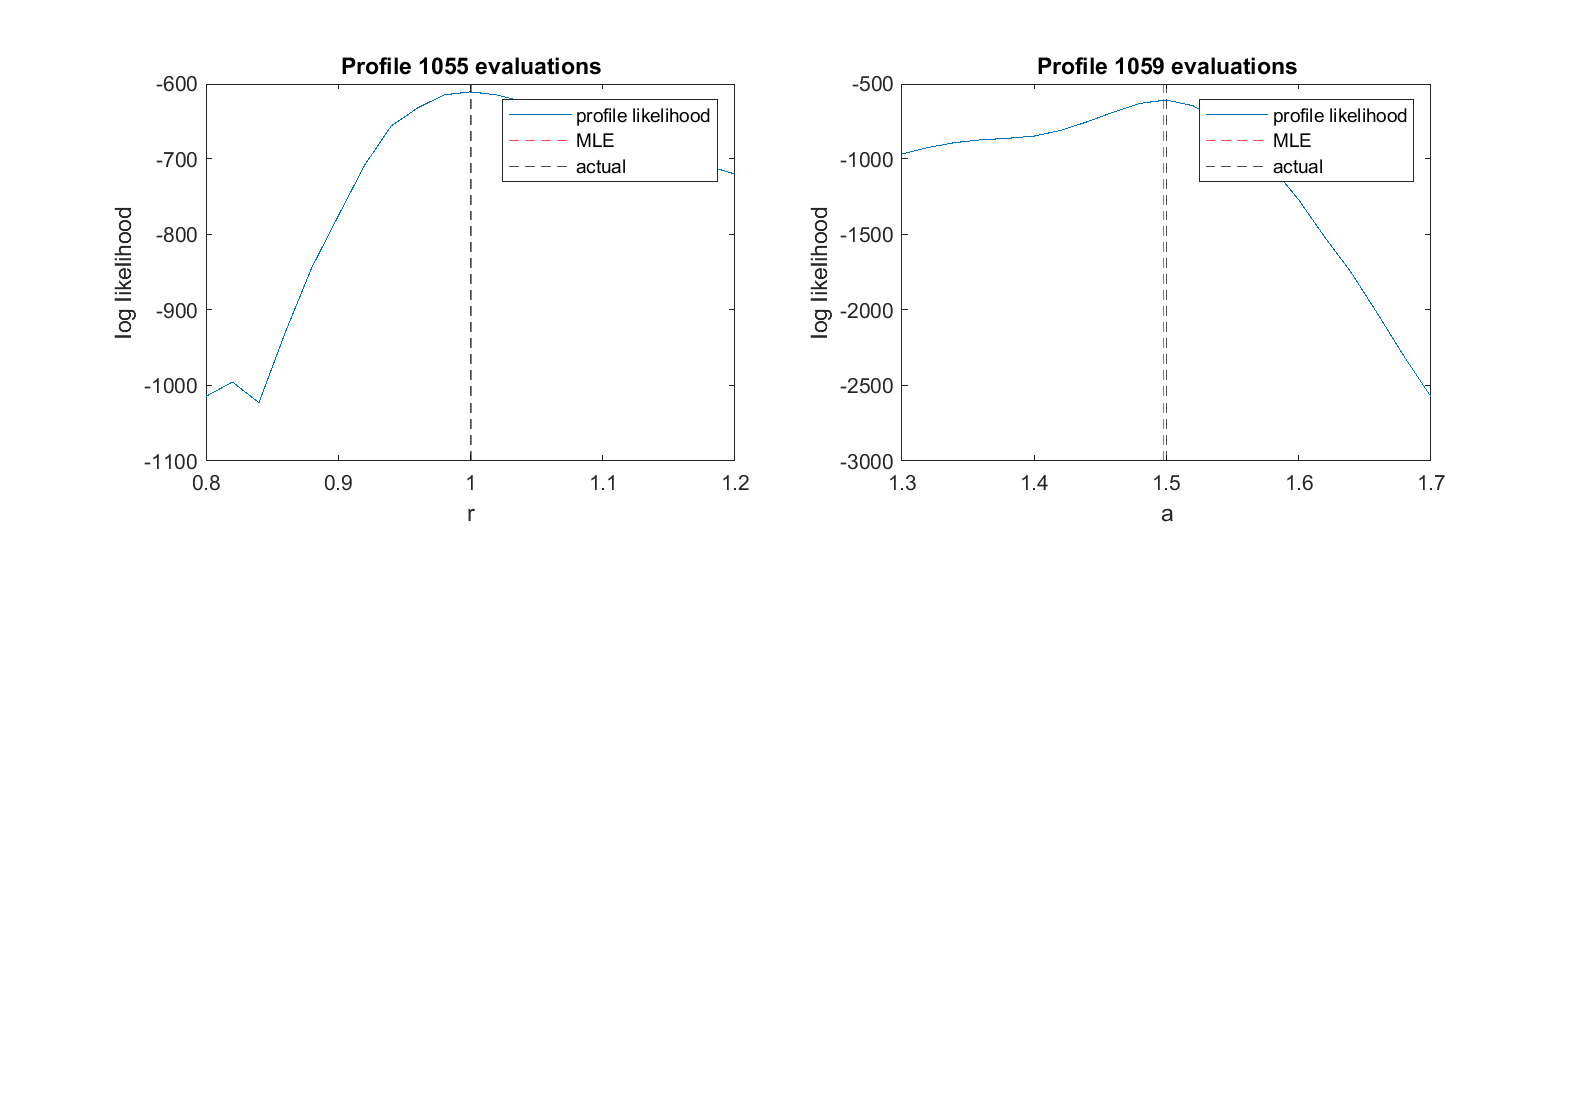
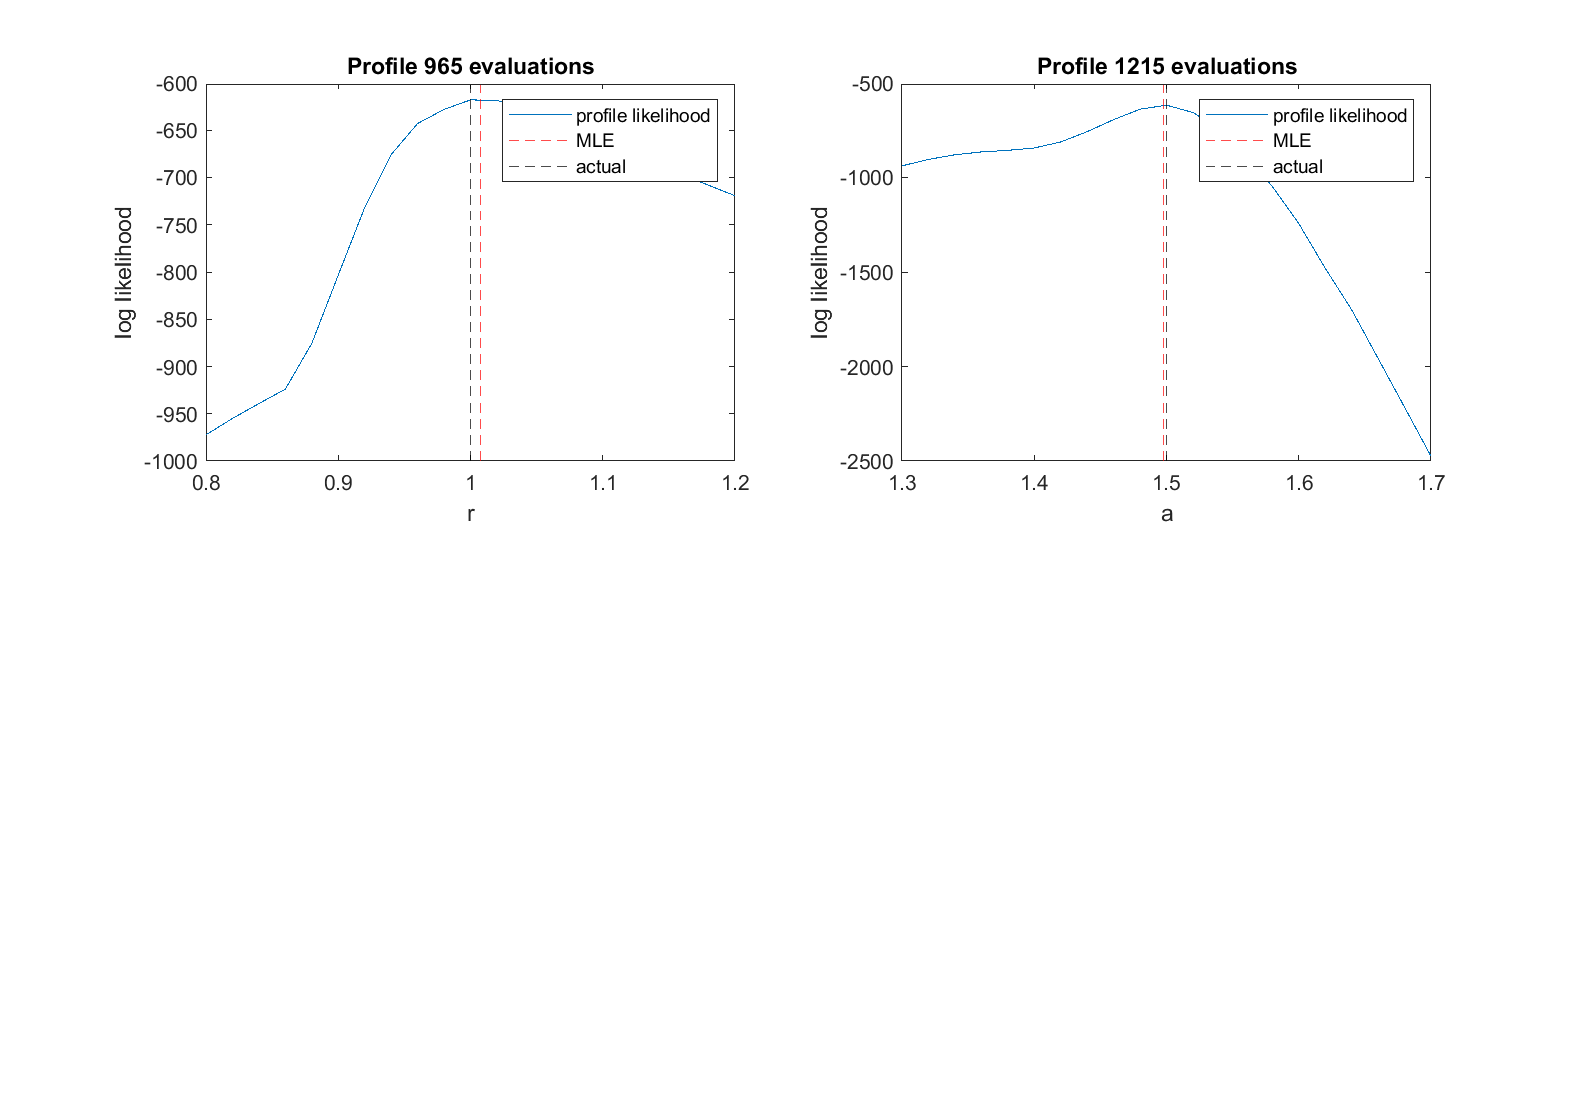
Improvements to code structure
Adjusted code structure so that the vector of variable parameters (Theta) is passed to getPar as needed to create the parameter strucrture (par). This avoids the need for the getTrialPar and getTrialParImproved functions, which previously had to be passed through the various fitting functoins.

diff --git a/main.m b/main.m
@@ -37,18 +37,24 @@ for iModel = 1:nModels
     if modelLbl(iModel) == "SEIR"
         % Functions defining SEIR model and parameter ranges and initial conditions for MLE
         getPar = @getParSEIR;
-        getTrialPar = @getTrialParSEIR;
-        getTrialParImproved = @getTrialParImprovedSEIR;
         solveModel = @solveModelSEIR;
         transformSolution = @transformSolutionMultiply;
         
-        % Initial guess for fitted parameters [R0, tR, pObs, obsSD]
-        parLbl = ["R0", "tR", "pObs", "obsSD"];
-        Theta0 = [1.5; 400; 0.1; 0.4];
-        
+        % Labels for plotting model solution
         xLbl = 'time (days)';
-        yLbl = 'new daily cases';
+        yLbl = 'new daily cases';        
         
+        % Specify true values of parameters to be fitted
+        parLbl = ["R0", "tR", "pObs", "obsSD"];
+        ThetaTrue = [1.3; 300; 0.01; 0.2];
+
+        % Indices and values of parameters in parLbl to optimise without re-evaluating forward model in the improved method
+        parsToOptimise = 3;
+        runningValues = 1;      % always run forward model with pObs = 1 under the improved method
+
+        % Initial guess for fitted parameters [R0, tR, pObs, obsSD]
+        Theta0 = [1.5; 400; 0.1; 0.4];
+               
         % Define lower and upper bounds on fitted parameters
         lb = [0; 0; 0; 0];
         ub = [20; 2000; 1; 2];
@@ -60,17 +66,23 @@ for iModel = 1:nModels
     elseif modelLbl(iModel) == "LV"
         % Functions defining LV model and parameter ranges and initial conditions for MLE
         getPar = @getParLV;
-        getTrialPar = @getTrialParLV;
-        getTrialParImproved = @getTrialParImprovedLV;
         solveModel = @solveModelLV;
         transformSolution = @transformSolutionMultiply;
-        
-        % Initial guess for fitted parameters [a, b, pObs, obsSD]
-        parLbl = ["r", "a", "pObs"];%, "obsSD"];
-        Theta0 = [0.95; 1.45; 0.11];%; 4];
-        
+
+       % Labels for plotting model solution
         xLbl = 'time';
         yLbl = 'observed population count';
+
+        % Specify true values of parameters to be fitted
+        parLbl = ["r", "a", "pObs"];%, "obsSD"];
+        ThetaTrue = [1; 1.5; 0.1];%; par.obsSD];
+
+        % Indices and values of parameters in parLbl to optimise without re-evaluating forward model in the improved method
+        parsToOptimise = 3;
+        runningValues = 1;      % always run forward model with pObs = 1 under the improved method        
+
+        % Initial guess for fitted parameters [r, a, pObs]
+        Theta0 = [0.95; 1.45; 0.11];%; 4];
         
         % Define lower and upper bounds on fitted parameters
         lb = [0; 0; 0];%; 0];
@@ -79,7 +91,6 @@ for iModel = 1:nModels
         % Profile intervals for each parameter
         ThetaLower = [0.8; 1.3; 0.08];%; 1];
         ThetaUpper = [1.2; 1.7; 0.12];%; 4];
-
     end
     
 
@@ -89,16 +100,9 @@ for iModel = 1:nModels
     % Generate data from forward model
     %%%%%%%%%%%%%%%%%%%%%%%%%%%%%%%%%%%%%%%%%%%%%%%%%%%%%%%%%%%%%%%%%%%%%%%
     
-    par = getPar();
+    par = getPar(ThetaTrue);
     sol = solveModel(par);
     obs = genObs(sol.eObs, par);
-    
-    % Make a vector of target parameters for inference (this is model-specific)
-    if modelLbl(iModel) == "SEIR"
-        ThetaTrue = [par.R0; par.tR; par.pObs; par.obsSD];
-    elseif modelLbl(iModel) == "LV"
-        ThetaTrue = [par.r; par.a; par.pObs];%; par.obsSD];
-    end
     
     
     
@@ -108,11 +112,11 @@ for iModel = 1:nModels
     
     % MLE
     fprintf('Model %s:   Basic method MLE...  ', modelLbl(iModel))
-    [ThetaMLE, parMLE, solMLE, countMLE] = doMLE(getTrialPar, solveModel, obs, par, Theta0, lb, ub, options);
+    [ThetaMLE, parMLE, solMLE, countMLE] = doMLE(getPar, solveModel, obs, Theta0, lb, ub, options);
     
     % Profiling
     fprintf('profiling...   ')
-    [logLik, countProfile] = doProfiling(getTrialPar, solveModel, obs, par, ThetaMLE, Theta0, lb, ub, ThetaLower, ThetaUpper, nMesh, options);
+    [logLik, countProfile] = doProfiling(getPar, solveModel, obs, ThetaMLE, Theta0, lb, ub, ThetaLower, ThetaUpper, nMesh, options);
     
     % Plotting
     plotGraphs(sol, solMLE, obs, logLik, ThetaMLE, ThetaTrue, ThetaLower, ThetaUpper, nMesh, countMLE, countProfile, xLbl, yLbl, parLbl, "basic_"+modelLbl(iModel), savFolder, 2*iModel-1);
@@ -125,17 +129,16 @@ for iModel = 1:nModels
     % NB variables with 'Improved" suffix relate to output from the structured inference method as opposed to the basic method
     %%%%%%%%%%%%%%%%%%%%%%%%%%%%%%%%%%%%%%%%%%%%%%%%%%%%%%%%%%%%%%%%%%%%%%%
     
-    % Indices  of parameters in parLbl to optimise without re-evaluating forward model
-    parsToOptimise = 3;
+
     
     
     % MLE
     fprintf('Structured method MLE... ')
-    [ThetaMLEImproved, parMLEImproved, solMLEImproved, countMLEImproved] = doMLEImproved(getTrialPar, getTrialParImproved, solveModel, transformSolution, obs, par, Theta0, lb, ub, parsToOptimise, options);
+    [ThetaMLEImproved, parMLEImproved, solMLEImproved, countMLEImproved] = doMLEImproved(getPar, solveModel, transformSolution, obs, Theta0, lb, ub, parsToOptimise, runningValues, options);
     
     % Profiling    
     fprintf('profiling...   ')
-    [logLikImproved, countProfileImproved] = doProfilingImproved(getTrialParImproved, solveModel, transformSolution, obs, par, ThetaMLEImproved, Theta0, lb, ub, ThetaLower, ThetaUpper, parsToOptimise, nMesh, options);
+    [logLikImproved, countProfileImproved] = doProfilingImproved(getPar, solveModel, transformSolution, obs, ThetaMLEImproved, Theta0, lb, ub, ThetaLower, ThetaUpper, parsToOptimise, runningValues, nMesh, options);
     fprintf('done\n')
     
     % Plotting

diff --git a/functions/doProfilingImproved.m b/functions/doProfilingImproved.m
@@ -1,4 +1,4 @@
-function [logLik, countProfile] = doProfilingImproved(getTrialParImproved, solveModel, transformSolution, obs, par, ThetaMLEImproved, Theta0, lb, ub, ThetaLower, ThetaUpper, parsToOptimise, nMesh, options)
+function [logLik, countProfile] = doProfilingImproved(getPar, solveModel, transformSolution, obs, ThetaMLEImproved, Theta0, lb, ub, ThetaLower, ThetaUpper, parsToOptimise, runningValues, nMesh, options)
 
 
 % Indices of remianing parameters in parLbl to profile
@@ -27,7 +27,7 @@ parfor iPar = 1:nPars
     iStart = find(ThetaMesh >= ThetaMLEImproved_contracted(iPar), 1, 'first');        % start profiling from the MLE rightwards
     ThetaOther0 = ThetaMLEImproved_contracted(jOther);                                % use MLE as initial guess for first run
     for iMesh = iStart:nMesh
-        objFn = @(ThetaOther)(-calcLogLikImproved(getTrialParImproved, solveModel, transformSolution, obs, makeTheta(ThetaMesh(iMesh), ThetaOther, iPar), par, Theta0(parsToOptimise), lb(parsToOptimise), ub(parsToOptimise), options));
+        objFn = @(ThetaOther)(-calcLogLikImproved(getPar, solveModel, transformSolution, obs, makeTheta(ThetaMesh(iMesh), ThetaOther, iPar), parsToOptimise, runningValues, Theta0, lb, ub, options));
         [x, f, ~, output] = fmincon(objFn, ThetaOther0, [], [], [], [], lb_contracted(jOther), ub_contracted(jOther), [], options);
         ll(iMesh) = -f;
         ThetaOther0 = x;                                          % use profile solution as the initial guess for the next run
@@ -37,7 +37,7 @@ parfor iPar = 1:nPars
     % now profile from the MLE leftwards
     ThetaOther0 = ThetaMLEImproved_contracted(jOther);                                % use MLE as initial guess for first run
     for iMesh = iStart-1:-1:1
-        objFn = @(ThetaOther)(-calcLogLikImproved(getTrialParImproved, solveModel, transformSolution, obs, makeTheta(ThetaMesh(iMesh), ThetaOther, iPar), par, Theta0(parsToOptimise), lb(parsToOptimise), ub(parsToOptimise), options));
+        objFn = @(ThetaOther)(-calcLogLikImproved(getPar, solveModel, transformSolution, obs, makeTheta(ThetaMesh(iMesh), ThetaOther, iPar), parsToOptimise, runningValues, Theta0, lb, ub, options));
         [x, f, ~, output] = fmincon(objFn, ThetaOther0, [], [], [], [], lb_contracted(jOther), ub_contracted(jOther), [], options);
         ll(iMesh) = -f;
         ThetaOther0 = x;                                          % use profile solution as the initial guess for the next run

diff --git a/functions/doMLEImproved.m b/functions/doMLEImproved.m
@@ -1,24 +1,23 @@
-function [ThetaMLEImproved, parMLEImproved, solMLEImproved, countMLEImproved] = doMLEImproved(getTrialPar, getTrialParImproved, solveModel, transformSolution, obs, par, Theta0, lb, ub, parsToOptimise, options)
+function [ThetaMLEImproved, parMLEImproved, solMLEImproved, countMLEImproved] = doMLEImproved(getPar, solveModel, transformSolution, obs, Theta0, lb, ub, parsToOptimise, runningValues, options)
 
 
 % Indices of remianing parameters in parLbl to profile
 parsToProfile = setdiff(1:length(Theta0), parsToOptimise);
 
 
-
 % Deine objective function for optimisation
-objFn = @(Theta)(-calcLogLikImproved(getTrialParImproved, solveModel, transformSolution, obs, Theta, par, Theta0(parsToOptimise), lb(parsToOptimise), ub(parsToOptimise), options));
+objFn = @(Theta_contracted)(-calcLogLikImproved(getPar, solveModel, transformSolution, obs, Theta_contracted, parsToOptimise, runningValues, Theta0, lb, ub, options));
 
 % Local search starting from Theta0...
 [ThetaMLE_contracted, ~, ~, output] = fmincon( objFn, Theta0(parsToProfile), [], [], [], [], lb(parsToProfile), ub(parsToProfile), [], options );
 countMLEImproved = output.funcCount;
 
 % Post-calculate optimal value of parameter(s) to be optimised
-[~, PhiMLE] = calcLogLikImproved(getTrialParImproved, solveModel, transformSolution, obs, ThetaMLE_contracted, par, Theta0(parsToOptimise), lb(parsToOptimise), ub(parsToOptimise), options);
+[~, PhiMLE] = calcLogLikImproved(getPar, solveModel, transformSolution, obs, ThetaMLE_contracted, parsToOptimise, runningValues, Theta0, lb, ub, options);
 
 % Combine the output from fmincon with the value of the parameter(s) optimised "within the loop" into a single vector of consistent format with ThetaMLE
 ThetaMLEImproved = makeTheta(PhiMLE, ThetaMLE_contracted, parsToOptimise );
 
 % Solve model at MLE estimate and plot results
-parMLEImproved = getTrialPar(ThetaMLEImproved, par);
+parMLEImproved = getPar(ThetaMLEImproved);
 solMLEImproved = solveModel(parMLEImproved);

diff --git a/functions/doProfiling.m b/functions/doProfiling.m
@@ -1,4 +1,4 @@
-function [logLik, countProfile] = doProfiling(getTrialPar, solveModel, obs, par, ThetaMLE, Theta0, lb, ub, ThetaLower, ThetaUpper, nMesh, options)
+function [logLik, countProfile] = doProfiling(getPar, solveModel, obs, ThetaMLE, Theta0, lb, ub, ThetaLower, ThetaUpper, nMesh, options)
 
 nPars = length(Theta0);      % number of parameters to profile
 countProfile = zeros(nPars, 1);
@@ -11,7 +11,7 @@ parfor iPar = 1:nPars
     iStart = find(ThetaMesh >= ThetaMLE(iPar), 1, 'first');        % start profiling from the MLE rightwards
     ThetaOther0 = ThetaMLE(jOther);                                % use MLE as initial guess for first run
     for iMesh = iStart:nMesh
-        objFn = @(ThetaOther)(-calcLogLik(getTrialPar, solveModel, obs, makeTheta(ThetaMesh(iMesh), ThetaOther, iPar), par));
+        objFn = @(ThetaOther)(-calcLogLik(getPar, solveModel, obs, makeTheta(ThetaMesh(iMesh), ThetaOther, iPar)));
         [x, f, ~, output] = fmincon(objFn, ThetaOther0, [], [], [], [], lb(jOther), ub(jOther), [], options);
         ll(iMesh) = -f;
         ThetaOther0 = x;                                          % use profile solution as the initial guess for the next run
@@ -21,7 +21,7 @@ parfor iPar = 1:nPars
     % now profile from the MLE leftwards
     ThetaOther0 = ThetaMLE(jOther);                                % use MLE as initial guess for first run
     for iMesh = iStart-1:-1:1
-        objFn = @(ThetaOther)(-calcLogLik(getTrialPar, solveModel, obs, makeTheta(ThetaMesh(iMesh), ThetaOther, iPar), par));
+        objFn = @(ThetaOther)(-calcLogLik(getPar, solveModel, obs, makeTheta(ThetaMesh(iMesh), ThetaOther, iPar)));
         [x, f, ~, output] = fmincon(objFn, ThetaOther0, [], [], [], [], lb(jOther), ub(jOther), [], options);
         ll(iMesh) = -f;
         ThetaOther0 = x;                                          % use profile solution as the initial guess for the next run

diff --git a/functions/calcLogLikImproved.m b/functions/calcLogLikImproved.m
@@ -1,21 +1,23 @@
-function [LL, PhiOpt] = calcLogLikImproved(getTrialParImproved, solveModel, transformSolution, obs, Theta, par, Phi0, lb, ub, options)
+function [LL, PhiOpt] = calcLogLikImproved(getPar, solveModel, transformSolution, obs, Theta_contracted, parsToOptimise, runningValues, Theta0, lb, ub, options)
 
 % Calculate log likelihood of observed data obs under parameters Theta
 % par is the structrue containing all model parameters
 % Theta is the vector of selected parameters to be fitted 
 % Phi0, lb, and ub are the initial condition and lower and upper bound for the parameter(s) to be optimised (e.g. pOObs)
 
+% Construct a full parameter vector theta by suitably concatenating Theta_contracted with the specified, fixed value (runningValues) of the parameter(s) Phi to be optimised 
+Theta = makeTheta(runningValues, Theta_contracted, parsToOptimise);
 
 % Construct a modified parameter structure by overwriting the default settings with the specified values of Theta
-par = getTrialParImproved(Theta, par);
+par = getPar(Theta);
 
 % Solve forward model (with pObs = 1 or equivalent modification made by getTrialParImproved)
 sol = solveModel(par); 
 
 % Find optimal Phi (representing e.g. pObs) and associated log likelihood, starting from initial guess pObs = 0.5
 % Note this optimisation stop does not require the forward model to be re-run, it just evaluates the likelihood at scaled_yMean = pObs*yMean
-objFn = @(Phi)(-LLfunc( transformSolution(Phi, sol), obs, par.obsSD, par.noiseModel));
-[PhiOpt, f, exitFlag] = fmincon(objFn, Phi0, [], [], [], [], lb, ub, [], options);           
+objFn = @(Phi)(-LLfunc( transformSolution(Phi, sol), obs, par));
+[PhiOpt, f, exitFlag] = fmincon(objFn, Theta0(parsToOptimise), [], [], [], [], lb(parsToOptimise), ub(parsToOptimise), [], options);           
 
 assert(exitFlag > 0)
 

diff --git a/functions/LLfunc.m b/functions/LLfunc.m
@@ -1,4 +1,4 @@
-function LL = LLfunc(yMean, yData, SD, noiseModel)
+function LL = LLfunc(yMean, yData, par)
 
 small = 1e-10;
 
@@ -9,21 +9,21 @@ yData = yData(:);
 
 nPoints = numel(yData);
 
-if noiseModel == "norm_SD_const"
+if par.noiseModel == "norm_SD_const"
     % Log likelihood (PDF of a normal with mean yMean and variance SD^2)
-    LL = -nPoints*(log(2*pi)/2 + log(SD))  -  0.5/SD^2 * sum( (yData-yMean).^2 );
+    LL = -nPoints*(log(2*pi)/2 + log(par.obsSD))  -  0.5/par.obsSD^2 * sum( (yData-yMean).^2 );
 
-elseif noiseModel == "norm_SD_propMean"
+elseif par.noiseModel == "norm_SD_propMean"
     yMean_pos = max(small, yMean);   % To avoid numerical problems, replace non-positive values with a small positive number
     
     % Log likelihood (PDF of a normal with mean yMean_pos and variance SD^2*yMean_pos^2)
-    LL = -nPoints*(log(2*pi)/2 + log(SD))  -  sum( log(yMean_pos) + 0.5/SD^2 * (yData-yMean_pos).^2./(yMean_pos.^2)  );
-elseif noiseModel == "poisson"
+    LL = -nPoints*(log(2*pi)/2 + log(par.obsSD))  -  sum( log(yMean_pos) + 0.5/par.obsSD^2 * (yData-yMean_pos).^2./(yMean_pos.^2)  );
+elseif par.noiseModel == "poisson"
     yMean_pos = max(small, yMean);   % To avoid numerical problems, replace non-positive values with a small positive number
 
     Ci = [0, cumsum( log(1:max(yData)) )]';  % vector of cumulative sum of log(integers) for efficient calculation of log(k!) in LL
     LL = sum( yData.*log(yMean_pos) - yMean_pos - Ci(1+yData) ); 
 else
-   error("noiseModel type needs to be one of: 'const', 'propMean', 'poisson'");
+   error("par.noiseModel type needs to be one of: 'const', 'propMean', 'poisson'");
 end
 

diff --git a/functions/getParSEIR.m b/functions/getParSEIR.m
@@ -1,4 +1,4 @@
-function par = getParSEIR();
+function par = getParSEIR(Theta);
 
 % Simulation parameters
 par.popSize = 5e6;      % population size
@@ -8,17 +8,17 @@ par.seedSize = 20;      % magnitude of seeding event (number of introduced infec
 par.seedDur = 1;        % parameter controlling duration of seeding event (days) = SD of Gaussian forcing function
 
 % Epi parameters
-par.R0 = 1.3;           % R0
+par.R0 = Theta(1);           % R0
 par.tE = 2;             % avg exposed time (days)
 par.tI = 4;             % avg infectious time (days)
-par.tR = 300;           % avg immune time (days)
+par.tR = Theta(2);           % avg immune time (days)
 
 % Observation parameters
-par.pObs = 0.01;        % proportion of infections observed
+par.pObs = Theta(3);        % proportion of infections observed
 par.tObs = 3;           % avg time from becoming infectious to being observed (days)
 
 % Noise model and parameters
 par.noiseModel = "norm_SD_propMean";        % noise model is normal with SD proportional to mean
 par.obsIntFlag = 1;     % set flag to indicate observations are rounded to integer values
-par.obsSD = 0.2;        % SD of multiplicative noise on observed values
+par.obsSD = Theta(4);        % SD of multiplicative noise on observed values
 

diff --git a/functions/doMLE.m b/functions/doMLE.m
@@ -1,7 +1,7 @@
-function [ThetaMLE, parMLE, solMLE, countMLE] = doMLE(getTrialPar, solveModel, obs, par, Theta0, lb, ub, options)
+function [ThetaMLE, parMLE, solMLE, countMLE] = doMLE(getPar, solveModel, obs, Theta0, lb, ub, options)
 
 % Deine objective function for optimisation
-objFn = @(Theta)(-calcLogLik(getTrialPar, solveModel, obs, Theta, par));
+objFn = @(Theta)(-calcLogLik(getPar, solveModel, obs, Theta));
 
 % Local search starting from Theta0...
 [ThetaMLE, ~, ~, output] = fmincon( objFn, Theta0, [], [], [], [], lb, ub, [], options);
@@ -12,5 +12,6 @@ countMLE = output.funcCount;
 % ThetaMLE = run(GlobalSearch, problem);
 
 % Solve model at MLE estimate and plot results
-parMLE = getTrialPar(ThetaMLE, par);
+parMLE = getPar(ThetaMLE);
 solMLE = solveModel(parMLE);
+

diff --git a/functions/getParLV.m b/functions/getParLV.m
@@ -1,4 +1,4 @@
-function par = getParLV();
+function par = getParLV(Theta);
 
 par.tMax = 100;        % simulation time 
 
@@ -6,16 +6,15 @@ par.tMax = 100;        % simulation time
 par.y0 = [100; 100];
 
 % Model parameters
-par.r = 1;
+par.r = Theta(1);
 par.K = 1000;
-par.a = 1.5;
+par.a = Theta(2);
 par.b = 200;
 par.mu = 1;
 
 % Observation parameters
-par.pObs = 0.1;        % proportion of population observed
+par.pObs = Theta(3);        % proportion of population observed
 
 % Noise model and parameters
 par.noiseModel = "poisson";        % noise model is normal with SD proportional to mean
 par.obsIntFlag = 0;     % set flag to indicate observations are not rounded to integer values
-par.obsSD = 2;        % SD of noise on observed values

diff --git a/functions/calcLogLik.m b/functions/calcLogLik.m
@@ -1,15 +1,16 @@
-function LL = calcLogLik(getTrialPar, solveModel, obs, Theta, par)
+function LL = calcLogLik(getPar, solveModel, obs, Theta)
 
 % Calculate log likelihood of observed data obs under parameters Theta
 % par is the structrue containing all model parameters
 % Theta is the vector of selected parameters to be fitted 
 
 
-% Construct a modified parameter structure by overwriting the default settings with the specified values of Theta
-par = getTrialPar(Theta, par);
+% Get parameter strcutre for the specified values of Theta
+par = getPar(Theta);
 
 % Solve forward model
 sol = solveModel(par); 
 
-LL = LLfunc(sol.eObs, obs, par.obsSD, par.noiseModel);
+% Call likelihood function
+LL = LLfunc(sol.eObs, obs, par);
 

diff --git a/functions/makeTheta.m b/functions/makeTheta.m
@@ -4,7 +4,11 @@ function ThetaFull = makeTheta(ThetaFocal, ThetaOther, iFocal)
 % iFocal is the index of ThetaFocal in ThetaFull
 
 
-nTheta = length(ThetaOther)+1;
-ThetaFull = zeros(nTheta, 1);
+nTheta = length(ThetaOther)+length(iFocal);
+if max(iFocal) > nTheta
+    error('Maximum value in iFocal cannot be greater than the sum of the lengths of ThetaFocal and ThetaOther')
+end
+assert(max(iFocal) <= nTheta);
+ThetaFull = nan(nTheta, 1);
 ThetaFull(iFocal) = ThetaFocal;
 ThetaFull(setdiff(1:nTheta, iFocal)) = ThetaOther;

diff --git a/functions/solveModelSEIR.m b/functions/solveModelSEIR.m
@@ -1,7 +1,7 @@
 function sol = solveModelSEIR(par)
 
-
 tSpan = 0:1:par.tMax;
+
 
 % Define initial number in each compartment
 S0 = par.popSize;       % susceptible
